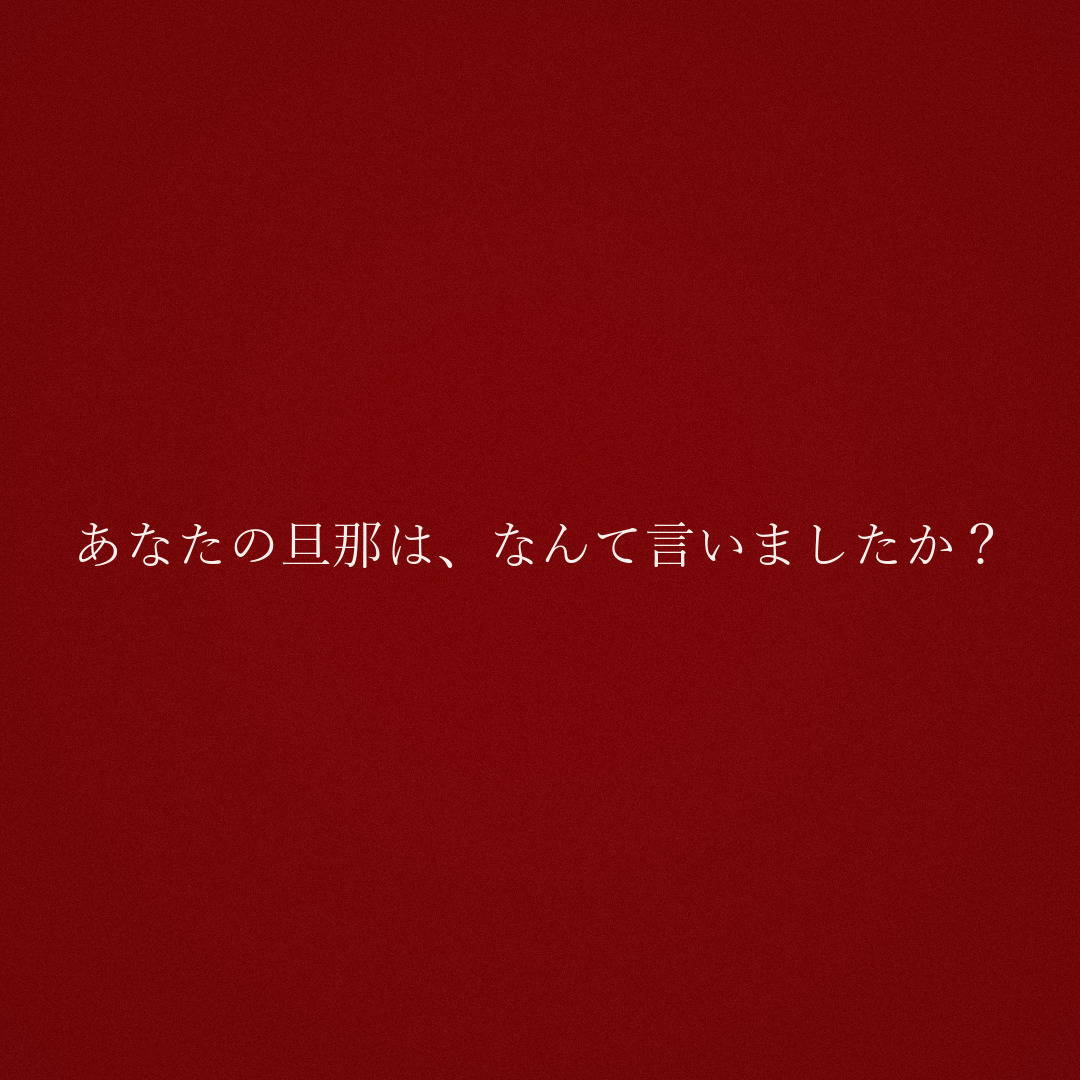
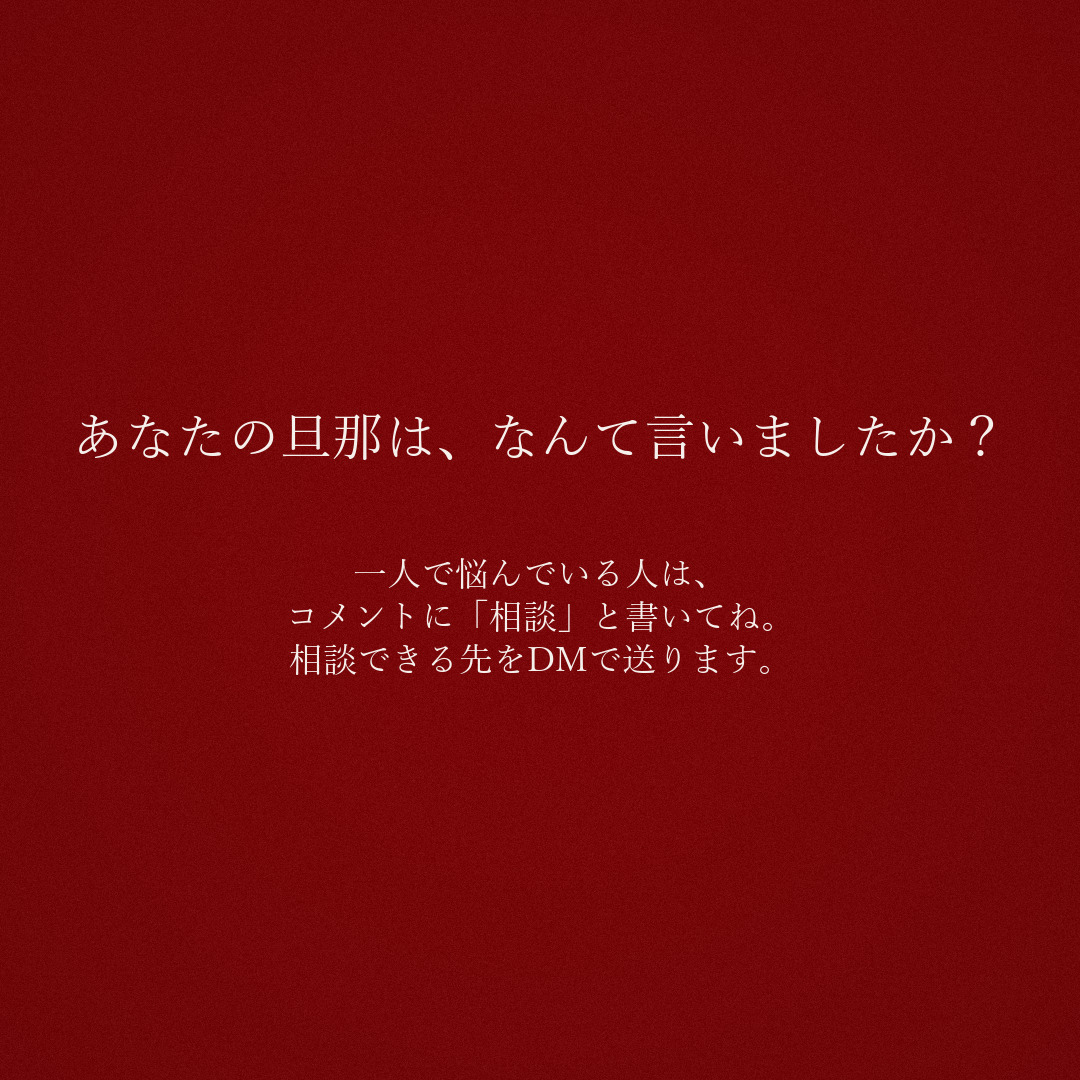
投稿05に相談の一言を追加

diff --git a/p/4nSGz4nyx1cNydhm/index.html b/p/4nSGz4nyx1cNydhm/index.html
@@ -4,7 +4,7 @@
 <meta charset="utf-8">
 <meta name="viewport" content="width=device-width, initial-scale=1">
 <meta name="robots" content="noindex, nofollow">
-<title>「出張中、夜に電話してもいい？」 #不倫 #浮気 #不倫調査 #浮気調査</title>
+<title>「出張中、夜に電話してもいい？」</title>
 <style>
   :root { --bg:#faf7f2; --fg:#2b2b2b; --sub:#777; --btn:#2b2b2b; --btnfg:#fff; --line:#e3ddd3; }
   * { box-sizing:border-box; }
@@ -24,14 +24,18 @@
 </head>
 <body>
 <main>
-  <h1>「出張中、夜に電話してもいい？」 #不倫 #浮気 #不倫調査 #浮気調査</h1>
+  <h1>「出張中、夜に電話してもいい？」</h1>
   <div class="btns">
     <button id="share">画像5枚と文章をTikTokに渡す</button>
     <button id="copy" class="sub">文章をコピー</button>
     <button id="save" class="sub">画像を全部保存</button>
   </div>
   <p class="msg" id="msg"></p>
-  <textarea id="text" readonly>「出張中、夜に電話してもいい？」 #不倫 #浮気 #不倫調査 #浮気調査</textarea>
+  <textarea id="text" readonly>「出張中、夜に電話してもいい？」
+
+一人で悩んでいる人は、コメントに「相談」と書いてね。相談できる先をDMで送ります。
+
+#不倫 #浮気 #不倫調査 #浮気調査</textarea>
   <div class="grid">
     <a href="01.jpg" download><img src="01.jpg" alt="1" loading="lazy"><span>1</span></a>
     <a href="02.jpg" download><img src="02.jpg" alt="2" loading="lazy"><span>2</span></a>
